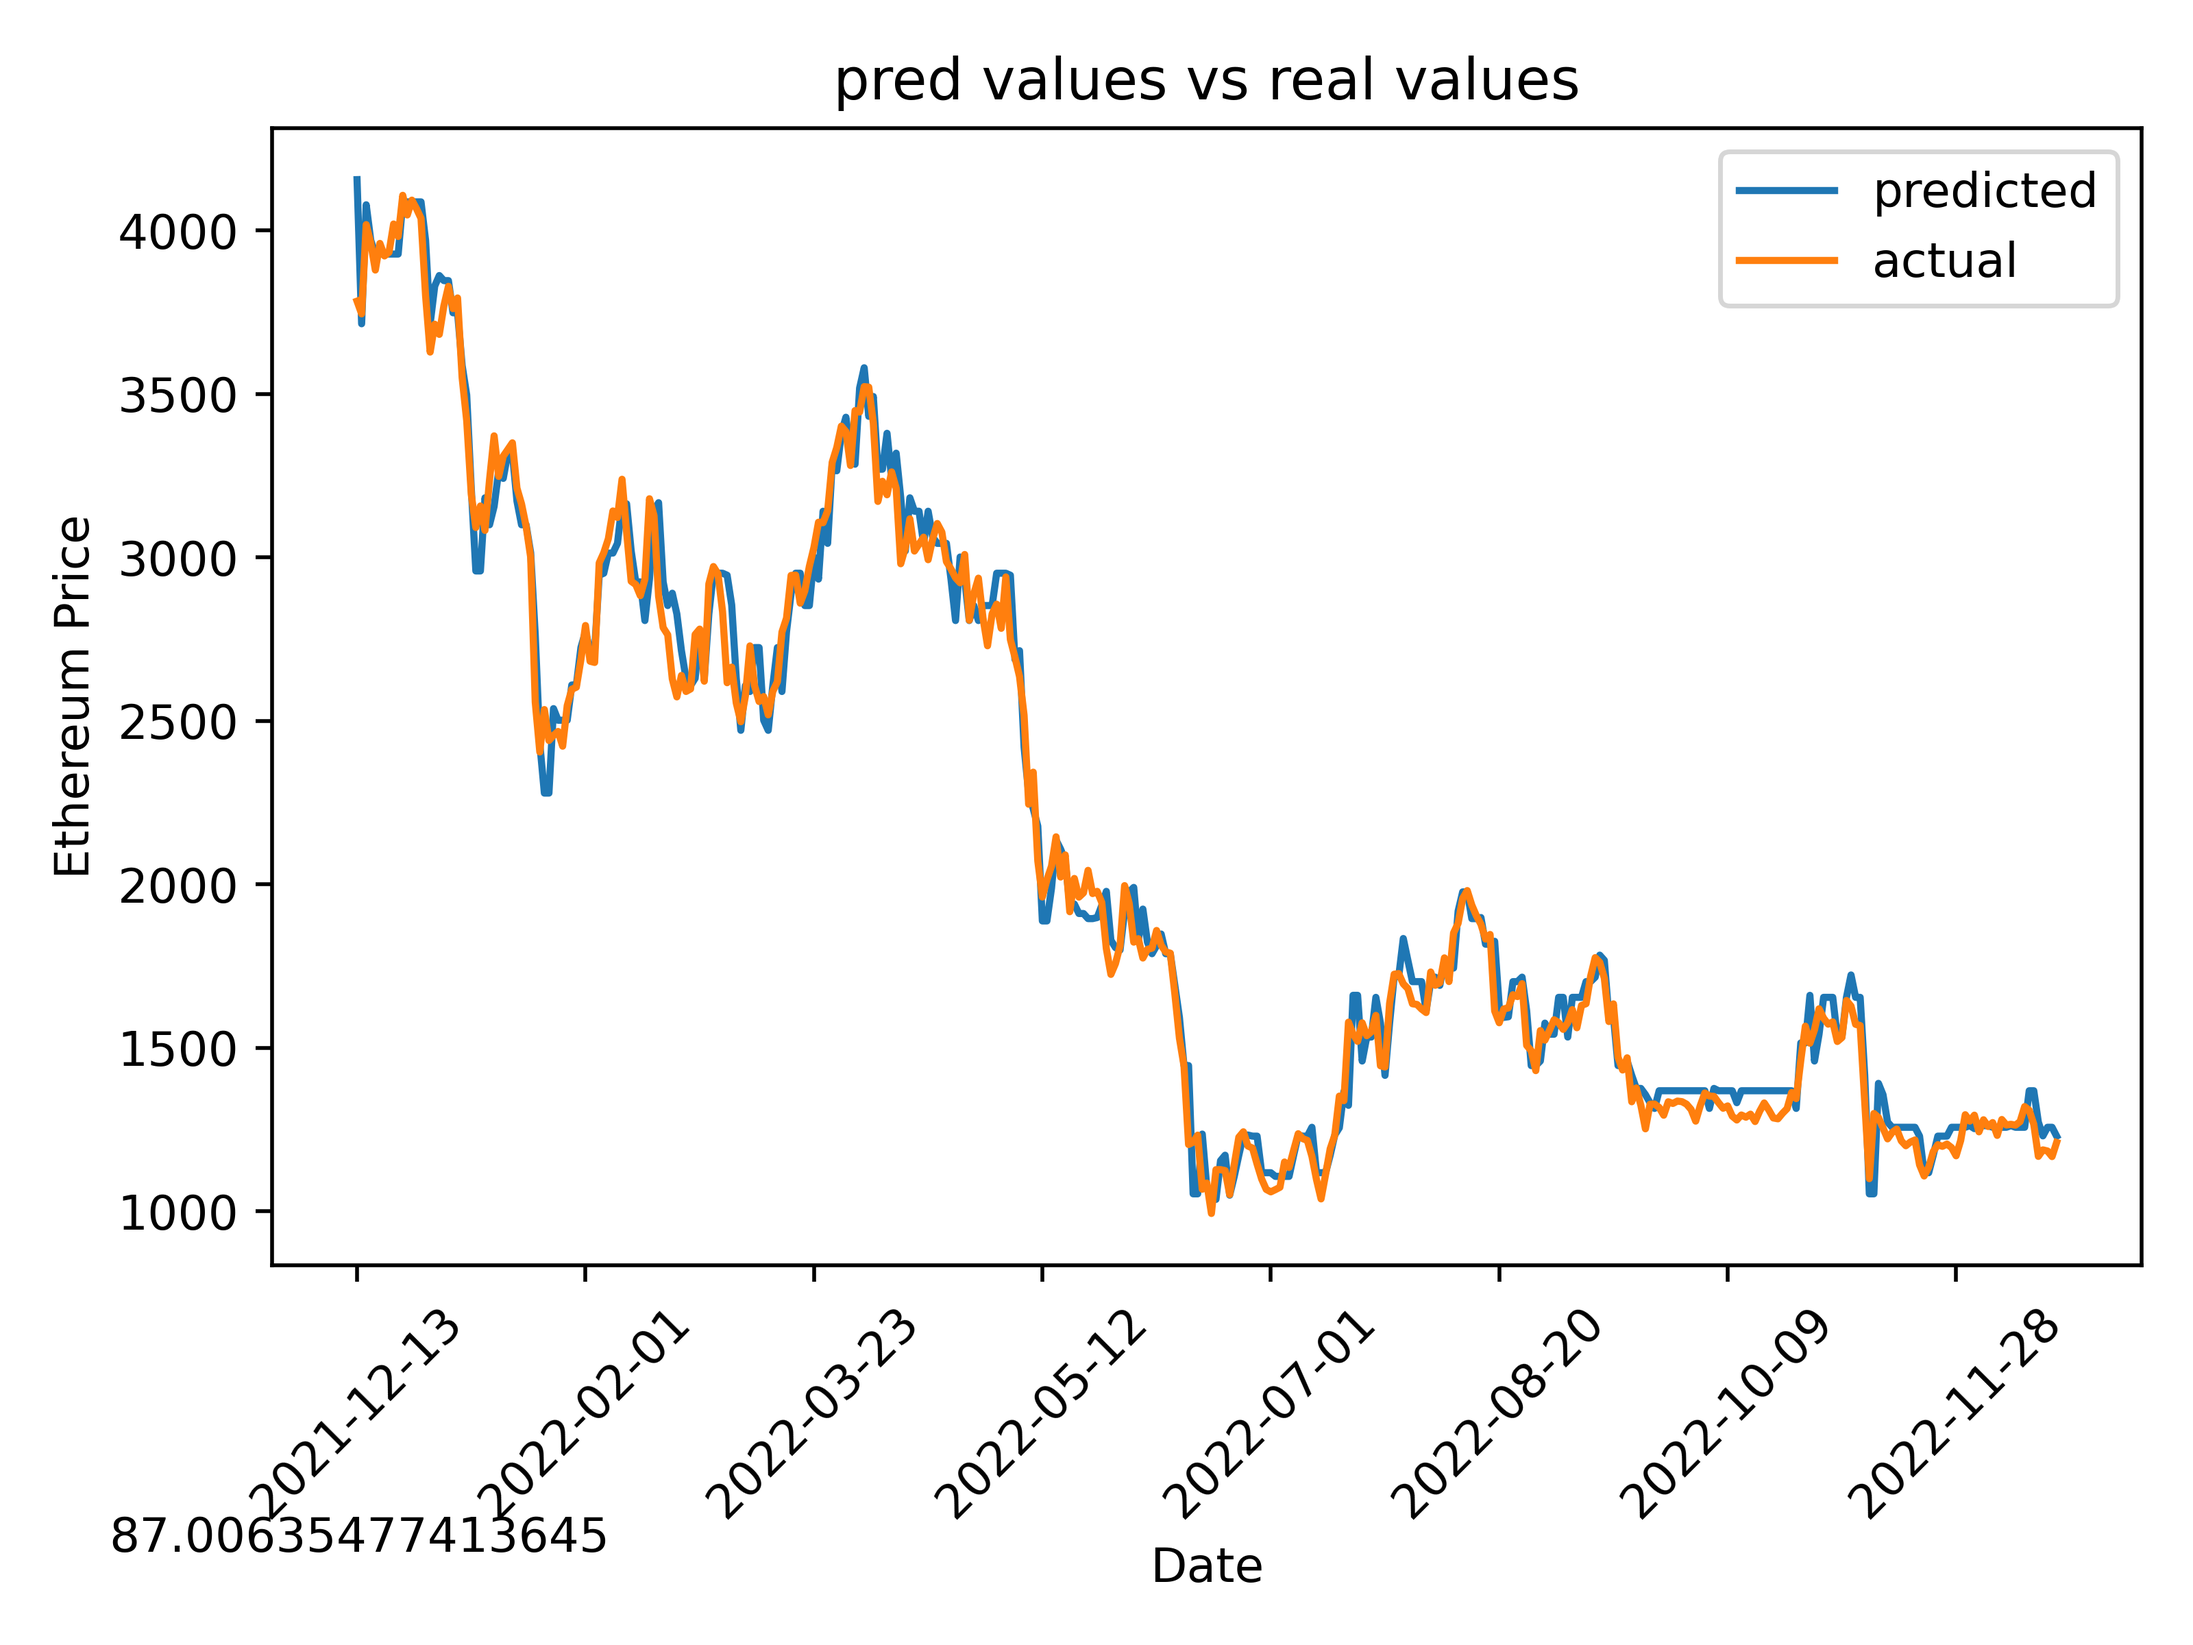
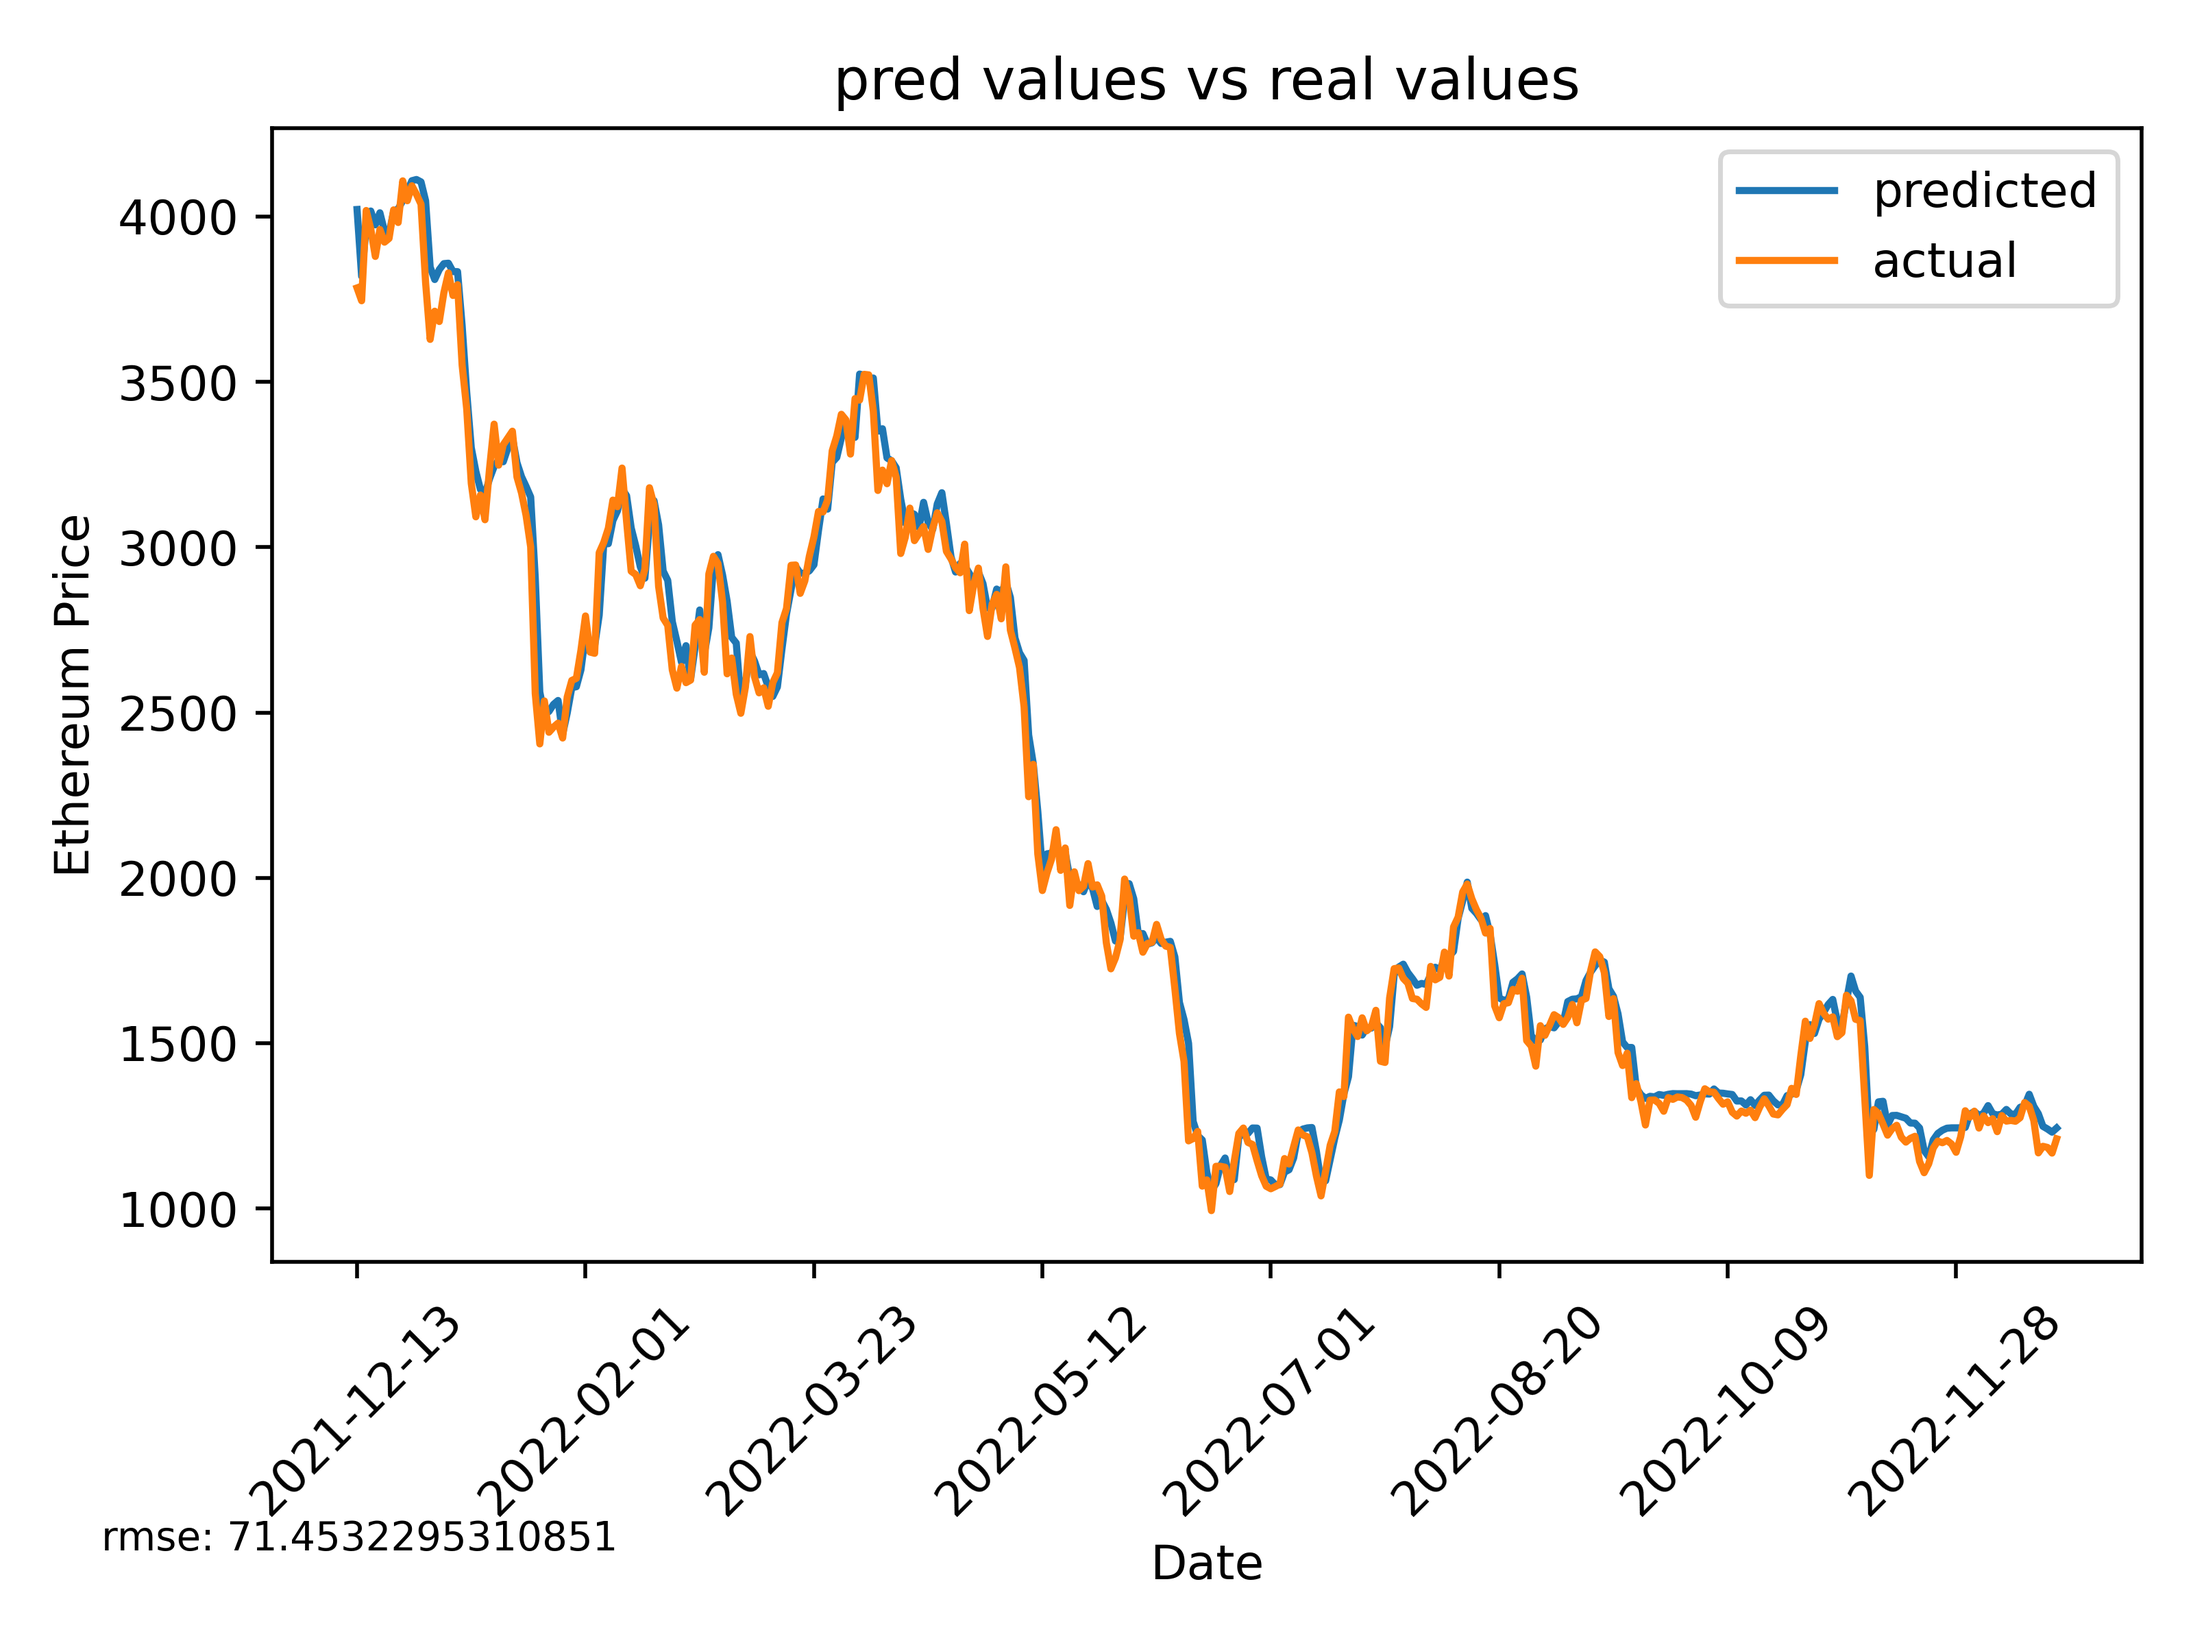
added DT and updated graphs

diff --git a/dt.py b/dt.py
@@ -1,7 +1,7 @@
 import os
 from utils import external_ticks, constants
 from sklearn.model_selection import train_test_split, cross_val_score
-from sklearn.linear_model import LinearRegression
+from sklearn.tree import DecisionTreeRegressor
 import pandas as pd
 import pandas_ta
 from talib import BBANDS
@@ -13,40 +13,60 @@ import tech_indicators
 import argparse
 import math
 
-# def create_parameter_space(lowest_knn=5):
-#     parameter_space = {'penalty': hp.choice('n_neighbors', range(lowest_knn, 70)),
-#                        'weights': hp.choice('weights', ['distance']),
-#                        'algorithm': hp.choice('algorithm', ['brute', 'ball_tree', 'kd_tree']),
-#                        'leaf_size': hp.choice('leaf_size', range(1, 100)),
-#                        'p': hp.choice('p', [1, 2]),
-#                        'metric': hp.choice('metric', ['minkowski', 'chebyshev']),
-#                        }
-#     return parameter_space
-#
-#
-# best = math.inf
-#
-#
-# def f(params):
-#     global best
-#     acc = accuracy_model(params)
-#     if acc < best:
-#         best = acc
-#     return {'loss': acc, 'status': STATUS_OK}
 
-def train_and_predict(xtrain, xtest, ytrain, ytest):
-    model = LinearRegression()
+from hyperopt import hp, fmin, tpe, STATUS_OK, Trials, anneal
+leaf_samples = list(range(5, 500, 10))
+
+def create_parameter_space():
+    parameter_space = {'min_samples_leaf': hp.choice('min_samples_leaf', leaf_samples)}
+    return parameter_space
+
+best = math.inf
+
+def accuracy_model(params):
+    dtreg = DecisionTreeRegressor(**params)
+    dtreg.fit(X_train, Y_train['Close'])
+    y_pred = dtreg.predict(X_test)
+    return mean_squared_error(Y_test['Close'], y_pred, squared=False)
+
+def f(params):
+    global best
+    acc = accuracy_model(params)
+    if acc < best:
+        best = acc
+    return {'loss': acc, 'status': STATUS_OK}
+
+def find_best_parameters(parameter_space):
+    trials = Trials()
+    best_parameters = fmin(fn=f,
+                       space=parameter_space,
+                       algo=tpe.suggest,  # the logic which chooses next parameter to try
+                       max_evals=100,
+                       trials=trials
+                       )
+
+    for k, v in best_parameters.items():
+        if k == 'min_samples_leaf':
+            best_parameters[k] = leaf_samples[v]
+
+    print('best: ', best, 'with best params :', best_parameters)
+    return best_parameters
+
+def train_and_predict(xtrain, xtest, ytrain, ytest, bestparams=None):
+    if isinstance(bestparams, dict):
+        model = DecisionTreeRegressor(**bestparams)
+    else:
+        model = DecisionTreeRegressor()
     model.fit(xtrain, ytrain)
     y_pred = model.predict(xtest)  # predicted
     # Printout relevant metrics
     rmse = mean_squared_error(ytest, y_pred, squared=False)
-    print("Model Coefficients:", model.coef_)
     print("Mean Absolute Error: $", mean_absolute_error(ytest, y_pred))
     print("Root Mean Square Error: $", rmse)
 
     print("Coefficient of Determination:", r2_score(ytest, y_pred))
     regression_confidence = model.score(xtest, ytest)
-    print("linear regression confidence: ", regression_confidence)
+    print("dt regression confidence: ", regression_confidence)
     return y_pred, rmse
 
 def generate_plots(y_pred, Y_test, rmse, name, length_of_moving_averages=10):
@@ -60,13 +80,13 @@ def generate_plots(y_pred, Y_test, rmse, name, length_of_moving_averages=10):
     plt.text(0.5, 0.5, 'rmse: '+str(rmse), ha='center', va='center', fontsize='small')
     plt.xticks(rotation=45)
     plt.tight_layout()
-    plt.savefig("{}_linear_regression_plot.png".format(length_of_moving_averages), dpi=500)
+    plt.savefig("{}_decision_tree_plot.png".format(length_of_moving_averages), dpi=500)
 
 def build_args():
     parser = argparse.ArgumentParser()
-    parser.add_argument('--lowest_knn_neighbor', help='we need to separate search and knn', type=int)
+    # parser.add_argument('--lowest_knn_neighbor', help='we need to separate search and knn', type=int)
     parser.add_argument('--length', help='the length for moving averages', type=int, default=10)
-    parser.add_argument('--name', help='the name of the file', type=str)
+    parser.add_argument('--name', help='the name of the file', type=str, required=True)
     return parser.parse_args()
 
 if __name__ == "__main__":
@@ -81,6 +101,10 @@ if __name__ == "__main__":
     X = pd.concat(normalized_indicators, axis=1)
     Y = df_close[['Close']][args.length-1:]
     X_train, X_test, Y_train, Y_test, = train_test_split(X, Y, shuffle=False, test_size=0.20)
-    y_pred, rmse = train_and_predict(X_train, X_test, Y_train, Y_test)
+
+    parameter_space = create_parameter_space()
+    best_parameters = find_best_parameters(parameter_space)
+    y_pred, rmse = train_and_predict(X_train, X_test, Y_train, Y_test, best_parameters)
+
     ticker_name = 'Ethereum'
     generate_plots(y_pred, Y_test, rmse, ticker_name, length_of_moving_averages=args.length)

diff --git a/knn.py b/knn.py
@@ -2,7 +2,7 @@ import os
 from utils import external_ticks, constants
 from sklearn.model_selection import train_test_split
 # Machine learning libraries
-from sklearn.neighbors import KNeighborsClassifier
+from sklearn.neighbors import KNeighborsRegressor
 from sklearn.metrics import accuracy_score
 import pandas as pd
 import pandas_ta
@@ -22,11 +22,15 @@ import argparse
 # Instantiate KNN learning model(k=15)
 from hyperopt import hp, fmin, tpe, STATUS_OK, Trials, anneal
 # Defining the hyper parameter space as a dictionary
-def create_parameter_space(lowest_knn=5):
-    parameter_space = {'n_neighbors': hp.choice('n_neighbors', range(lowest_knn, 70)),
+
+n_neighbor_list = list(range(5, 100))
+leaf_size_list = list(range(1, 100))
+
+def create_parameter_space():
+    parameter_space = {'n_neighbors': hp.choice('n_neighbors', n_neighbor_list),
                        'weights': hp.choice('weights', ['distance']),
                        'algorithm': hp.choice('algorithm', ['brute', 'ball_tree', 'kd_tree']),
-                       'leaf_size': hp.choice('leaf_size', range(1, 100)),
+                       'leaf_size': hp.choice('leaf_size', leaf_size_list),
                        'p': hp.choice('p', [1, 2]),
                        'metric': hp.choice('metric', ['minkowski', 'chebyshev']),
                        }
@@ -44,13 +48,13 @@ def f(params):
     return {'loss': acc, 'status': STATUS_OK}
 
 def accuracy_model(params):
-    knn = KNeighborsClassifier(**params)
+    knn = KNeighborsRegressor(**params)
     knn.fit(X_train, Y_train['Close'])
     y_pred = knn.predict(X_test)
     return mean_squared_error(Y_test['Close'], y_pred, squared=False)
 
 # Finding out which set of hyperparameters give highest accuracy
-def find_best_parameters(parameter_space, lowest_knn_neighbor=0):
+def find_best_parameters(parameter_space):
     trials = Trials()
     best_parameters = fmin(fn=f,
                        space=parameter_space,
@@ -73,16 +77,16 @@ def find_best_parameters(parameter_space, lowest_knn_neighbor=0):
             best_parameters[k] = metric_map[v]
         elif k == 'p':
             best_parameters[k] = v+1
-        elif k == 'leaf_size' and v == 0:
-            best_parameters[k] = None
+        elif k == 'leaf_size':
+            best_parameters[k] = leaf_size_list[v]
         elif k == 'n_neighbors':
-            best_parameters[k] = v+lowest_knn_neighbor
+            best_parameters[k] = n_neighbor_list[v]
     print('best: ', best, 'with best params :', best_parameters)
     return best_parameters
 
 
 def train_and_predict(xtrain, xtest, ytrain, ytest, parameters):
-    knn = KNeighborsClassifier(**parameters)
+    knn = KNeighborsRegressor(**parameters)
     knn.fit(xtrain, ytrain['Close'])
     y_pred = knn.predict(xtest)
     rmse = mean_squared_error(ytest['Close'], y_pred, squared=False)
@@ -108,7 +112,6 @@ def generate_plots(y_predicted, Y_test, rmse, name, length_of_moving_averages=10
 
 def build_args():
     parser = argparse.ArgumentParser()
-    parser.add_argument('--lowest_knn_neighbor', help='we need to separate search and knn', type=int)
     parser.add_argument('--length', help='the length for moving averages', type=int, default=10)
     parser.add_argument('--name', help='the name of the file', type=str)
     return parser.parse_args()
@@ -125,10 +128,10 @@ if __name__ == "__main__":
     X = pd.concat(normalized_indicators, axis=1)
 
     Y = df_close[['Close']][args.length-1:]
-    lowest_knn_neighbor = args.lowest_knn_neighbor if args.lowest_knn_neighbor else 5
+    Y = Y.astype(float)
     X_train, X_test, Y_train, Y_test = train_test_split(X, Y, shuffle=False, test_size=0.20)
-    parameter_space = create_parameter_space(lowest_knn=lowest_knn_neighbor)
-    best_parameters = find_best_parameters(parameter_space, lowest_knn_neighbor=lowest_knn_neighbor)
+    parameter_space = create_parameter_space()
+    best_parameters = find_best_parameters(parameter_space)
     y_pred, rmse = train_and_predict(X_train, X_test, Y_train, Y_test, best_parameters)
     ticker_name = 'Ethereum'
     generate_plots(y_pred, Y_test, rmse, ticker_name, length_of_moving_averages=args.length)
